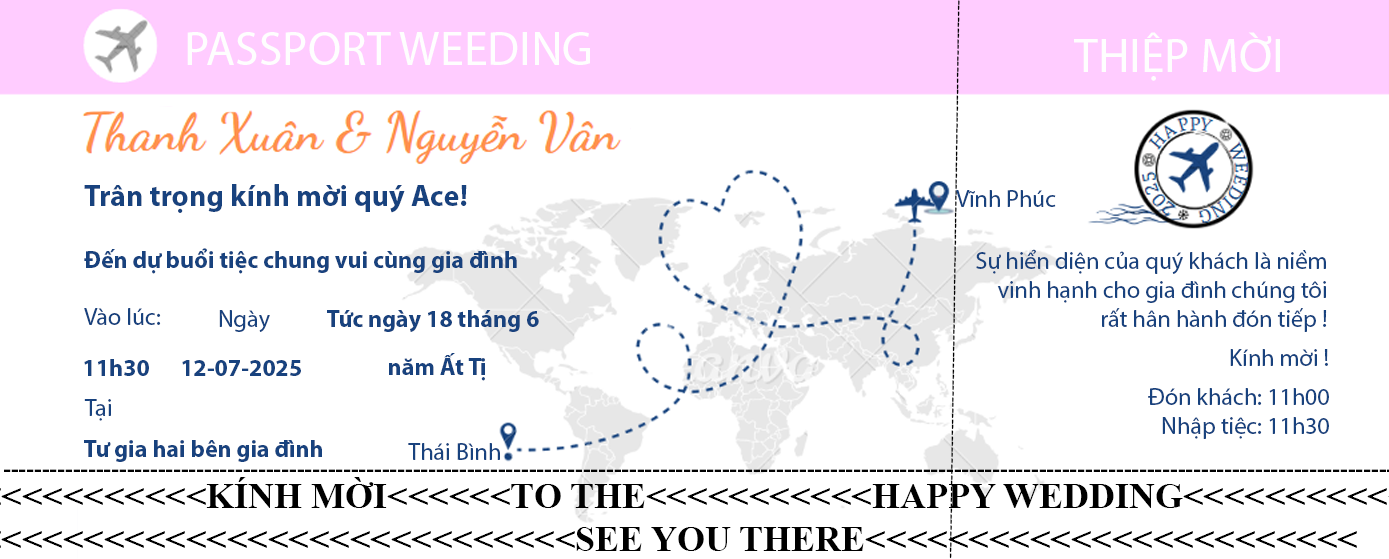
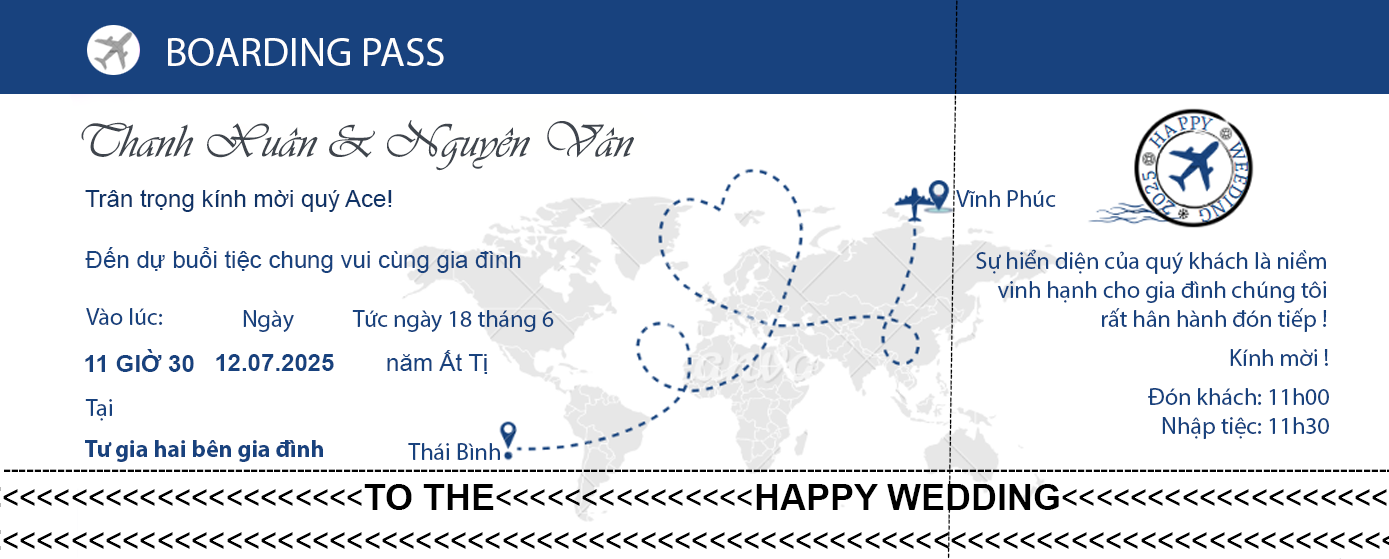
update

diff --git a/index.html b/index.html
@@ -231,7 +231,7 @@
       </h2>
       <div class="text-date">
         <p style="background: #ec232875">
-          SAVE THE DATE<span>01-08-2025</span>
+          SAVE THE DATE<span>12-07-2025</span>
         </p>
       </div>
     </div>
@@ -476,7 +476,7 @@
                   <div class="event-title text-center-sm">
                     <ul>
                       <li class="text-center">
-                        <i class="fa fa-calendar-check-o"></i>2025-08-10
+                        <i class="fa fa-calendar-check-o"></i>2025-07-12
                       </li>
                       <li class="text-center">
                         <i class="fa fa-clock-o"></i> 11:00
@@ -505,7 +505,7 @@
                   <div class="event-title text-center-sm">
                     <ul>
                       <li class="text-center">
-                        <i class="fa fa-calendar-check-o"></i>2025-08-10
+                        <i class="fa fa-calendar-check-o"></i>2025-07-12
                       </li>
                       <li class="text-center">
                         <i class="fa fa-clock-o"></i> 11:00
